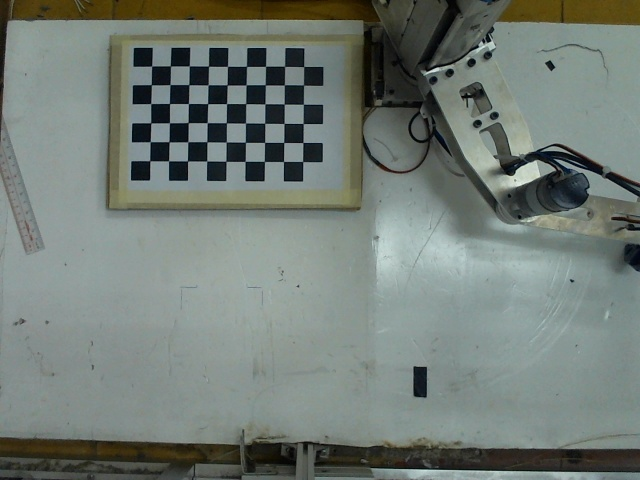
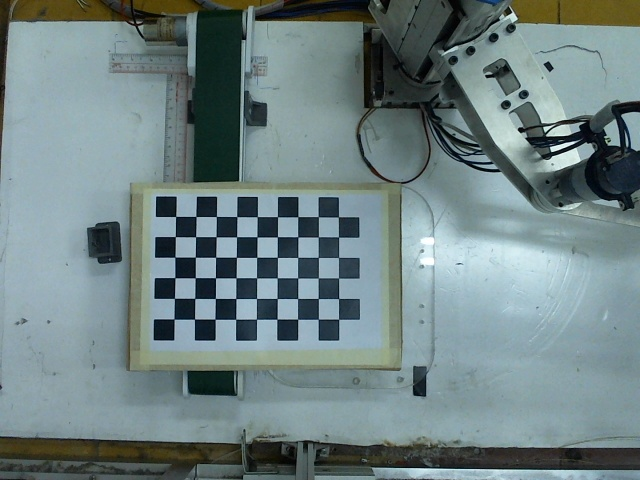
Updates for thesis book first

diff --git a/MainControllerV2.py b/MainControllerV2.py
@@ -84,7 +84,7 @@ class Ui_MainControllerUI(object):
         self.runAgain = QtCore.QTimer()
         self.runAgain.timeout.connect(self.RunAgain)
         # for Excel
-        self.workbook = xlsxwriter.Workbook('ahaha.xlsx') 
+        self.workbook = xlsxwriter.Workbook('laplai.xlsx') 
         self.worksheet = self.workbook.add_worksheet() 
         #Hoang's worksheet
         self.worksheetAngle = self.workbook.add_worksheet()
@@ -94,6 +94,8 @@ class Ui_MainControllerUI(object):
         self.colAngle = 0
         self.countForTest=0
         self.testState=False
+        self.velocity = 0
+        self.checkVec = 0
         try:
             self.ser.open()
             
@@ -846,92 +848,105 @@ class Ui_MainControllerUI(object):
         
     def update_Image(self):
         try:
-            frame, cx, cy, angle = self.od.Process(self.mode)
-            height, width, channel = frame.shape
-            bytesPerLine = 3 * width
-            qImg = QtGui.QImage(frame.data, width, height, bytesPerLine, QtGui.QImage.Format_RGB888).rgbSwapped()
-            qPixMap = QtGui.QPixmap(qImg)
-            qPixMap = qPixMap.scaled(self.liveVidFrame.width(), self.liveVidFrame.height(),QtCore.Qt.KeepAspectRatio)
-            self.liveVidFrame.setPixmap(qPixMap)
-            points = np.array([[cx, cy, 1]]).T
-            _angle = angle * 180.0 / 3.14159
-            
-            # duoi dat
-            if self.mode == 0:
-                print('mode 0')
-                realPoints = ImgPoints2RealPoints(self.mtx, self.rodrigues_Vecs, self.tvects, points, self.s)
-                _x, _y = realPoints.item(0), realPoints.item(1)
-                pointX = _x * 2.45 - 34.15
-                pointY = _y * 2.45 + 0
-                self.sumX += pointX
-                self.sumY += pointY
-                self.sumAngle += _angle
-                self.count += 1 
-            # tren bang chuyen
-            elif self.mode == 1:
-                print('----------------mode 1----------------')
-                realPoints = ImgPoints2RealPoints(self.mtx_BC, self.rodrigues_Vecs_BC, self.tvects_BC, points, self.s_BC)
-                _x, _y = realPoints.item(0), realPoints.item(1)
-                pointX = _x * 2.45 - 30
-                pointY = _y * 2.45 + 20
-                # print(pointX, pointY, _angle)
+            if self.stateProcess == False:
+                frame, cx, cy, angle = self.od.Process(self.mode)
+                height, width, channel = frame.shape
+                bytesPerLine = 3 * width
+                qImg = QtGui.QImage(frame.data, width, height, bytesPerLine, QtGui.QImage.Format_RGB888).rgbSwapped()
+                qPixMap = QtGui.QPixmap(qImg)
+                qPixMap = qPixMap.scaled(self.liveVidFrame.width(), self.liveVidFrame.height(),QtCore.Qt.KeepAspectRatio)
+                self.liveVidFrame.setPixmap(qPixMap)
+                points = np.array([[cx, cy, 1]]).T
+                _angle = angle * 180.0 / 3.14159
                 
-                self.sumX = pointX
-                self.sumY = pointY
-                self.sumAngle = _angle
-                self.count = 10
-            self.xProLbl.setText(str(pointX))
-            self.yProLbl.setText(str(pointY))
-            # print(_angle)
-            
-            if self.state == True and self.stateProcess == False and self.count == 10:
-                print('---------------------')
-                self.count = 0
-                aveA = self.sumAngle / 10.0
-                aveX = self.sumX / 10.0 
-                aveY = self.sumY / 10.0
-                
-                # update toa do sau xx seconds
-                if self.mode == 1:
-                    aveX = aveX * 10.0 + 0.9
-                    # aveY = aveY * 10.0 + 2.1 + (1.51 + 0.25 + 0.275) * (20.0 / 6.42)
-                    aveY = aveY * 10.0 - 0.4
-                    if aveY < 10:
-                        aveY += 1.3
-                        aveX += 1
-                    elif aveY >= 10 and aveY <= 22:
-                        aveY += 0.6
-                    else:
-                        pass
-                    # aveY = aveY * 10.0 + 1.8
-                    
-                    aveA = aveA * 10.0
-                print(aveA)
-                self.WriteToExcel(self.worksheetAngle, self.rowAngle, self.colAngle, aveX, aveY)
-                self.rowAngle += 1
-                if aveY <= 25.0:
-                    aveY += 0.4
-                else:
-                    aveY += 0.2
-                # print(aveX, aveY, aveA)
-                self.sumX = 0
-                self.sumY = 0
-                self.sumAngle = 0
-                self.stateProcess = True
-                self.objectCounting += 1
-                logging.basicConfig(filename=self.FILE_LOG, level=logging.INFO)
-                t_log = GetTime()
-                logging.info(t_log + ': ' + 'Object number ' + str(self.objectCounting) + ' in progress.')
-
+                # duoi dat
                 if self.mode == 0:
-                    message = UARTMessage(aveX, aveY, aveA, 'c', 3)
-                    message_bytes = bytes(message, encoding='utf-8')
+                    print('mode 0')
+                    realPoints = ImgPoints2RealPoints(self.mtx, self.rodrigues_Vecs, self.tvects, points, self.s)
+                    _x, _y = realPoints.item(0), realPoints.item(1)
+                    pointX = _x * 2.45 - 34.15
+                    pointY = _y * 2.45 + 0
+                    self.sumX += pointX
+                    self.sumY += pointY
+                    self.sumAngle += _angle
+                    self.count += 1 
+                # tren bang chuyen
                 elif self.mode == 1:
-                    message = UARTMessage(aveX, aveY, aveA, 'c', 9)
-                    message_bytes = bytes(message, encoding='utf-8')
-                self.ser.write(message_bytes)
+                    print('----------------mode 1----------------')
+                    realPoints = ImgPoints2RealPoints(self.mtx_BC, self.rodrigues_Vecs_BC, self.tvects_BC, points, self.s_BC)
+                    _x, _y = realPoints.item(0), realPoints.item(1)
+                    pointX = _x * 2.45 - 30
+                    pointY = _y * 2.45 + 20
+                    # print(pointX, pointY, _angle)
+                    
+                    self.sumX = pointX
+                    self.sumY = pointY
+                    self.sumAngle = _angle
+                    self.count = 10
+                self.xProLbl.setText(str(pointX))
+                self.yProLbl.setText(str(pointY))
+                # print(_angle)
                 
-                # self.myTimer.start(8000)
+                if self.state == True and self.stateProcess == False and self.count == 10:
+                    print('---------------------')
+                    self.count = 0
+                    aveA = self.sumAngle / 10.0
+                    aveX = self.sumX / 10.0 
+                    aveY = self.sumY / 10.0
+                    
+                    # update toa do sau xx seconds
+                    if self.mode == 1:
+                        aveX = aveX * 10.0 + 0.9
+                        aveY = aveY * 10.0 - 0.4 + (1.5465 + 0.25 + 0.275) * (25 / 5.675)
+                        # aveY = aveY * 10.0 - 0.4
+                        if aveY < 10:
+                            aveY += 1.3
+                            aveX += 1.3
+                        elif aveY >= 10 and aveY <= 22:
+                            aveY += 0.6
+                            aveX -= 0.6
+                        else:
+                            pass
+                        if aveA > -2.0 and aveA < 2.0:
+                            aveY -= 0.2
+                        # aveY = aveY * 10.0 + 1.8
+                        
+                        aveA = aveA * 10.0
+                    print(aveA)
+                    self.WriteToExcel(self.worksheetAngle, self.rowAngle, self.colAngle, aveX, aveY)
+                    self.rowAngle += 1
+                    if aveY <= 25.0:
+                        aveY += 0.4
+                    else:
+                        aveY += 0.2
+                    
+                    self.sumX = 0
+                    self.sumY = 0
+                    self.sumAngle = 0
+                    self.stateProcess = True
+                    self.objectCounting += 1
+                    logging.basicConfig(filename=self.FILE_LOG, level=logging.INFO)
+                    t_log = GetTime()
+                    logging.info(t_log + ': ' + 'Object number ' + str(self.objectCounting) + ' in progress.')
+
+                    if self.mode == 0:
+                        message = UARTMessage(aveX, aveY, aveA, 'c', 3)
+                        message_bytes = bytes(message, encoding='utf-8')
+                    elif self.mode == 1:
+                        message = UARTMessage(aveX, aveY, aveA, 'c', 8.5)
+                        message_bytes = bytes(message, encoding='utf-8')
+                    self.ser.write(message_bytes)
+            else:
+                frame = self.od.Get_Frame()
+                height, width, channel = frame.shape
+                bytesPerLine = 3 * width
+                qImg = QtGui.QImage(frame.data, width, height, bytesPerLine, QtGui.QImage.Format_RGB888).rgbSwapped()
+                qPixMap = QtGui.QPixmap(qImg)
+                qPixMap = qPixMap.scaled(self.liveVidFrame.width(), self.liveVidFrame.height(),QtCore.Qt.KeepAspectRatio)
+                self.liveVidFrame.setPixmap(qPixMap)
+                
+                 
+                    # self.myTimer.start(8000)
             self.updateTimer.setInterval(5)
 
         except Exception as e:

diff --git a/ObjectDetection.py b/ObjectDetection.py
@@ -51,12 +51,12 @@ class ObjectDetection():
             text = '{}: {:.0f}%'.format(label, confidence * 100)
             (startX, startY, endX, endY) = (result['topleft']['x'], result['topleft']['y'], result['bottomright']['x'], result['bottomright']['y'])
             if mode == 0:
-                if confidence > 0.85 and ((startX + endX) / 2) < 300:
+                if ((startX + endX) / 2) < 300:
                     rects.append((startX, startY, endX, endY))
 
                     frame_copy = cv2.rectangle(frame_copy, tl, br, (0, 255, 0), 2)   
             elif mode == 1:
-                if confidence > 0.7 and ((startY + endY) / 2) > 50 and ((startX + endX) / 2) < 300:
+                if ((startY + endY) / 2) > 100 and ((startX + endX) / 2) < 300:
                     rects.append((startX, startY, endX, endY))
 
                     frame_copy = cv2.rectangle(frame_copy, tl, br, (0, 255, 0), 2)   

diff --git a/Calibration.py b/Calibration.py
@@ -44,7 +44,7 @@ def GetCalibrationParams():
             img = cv2.drawChessboardCorners(img, (9,6), corners2,ret)
             ret, mtx, dist, rvecs, tvecs = cv2.calibrateCamera(objpoints, imgpoints, gray.shape[::-1],None,None)
 
-            np.savez('Calib.npz', mtx=mtx, dist=dist, rvecs=rvecs, tvecs=tvecs, corners=corners2)
+            np.savez('Calib_bc.npz', mtx=mtx, dist=dist, rvecs=rvecs, tvecs=tvecs, corners=corners2)
             cv2.imshow('img',img)
             cv2.waitKey(0)
             break
